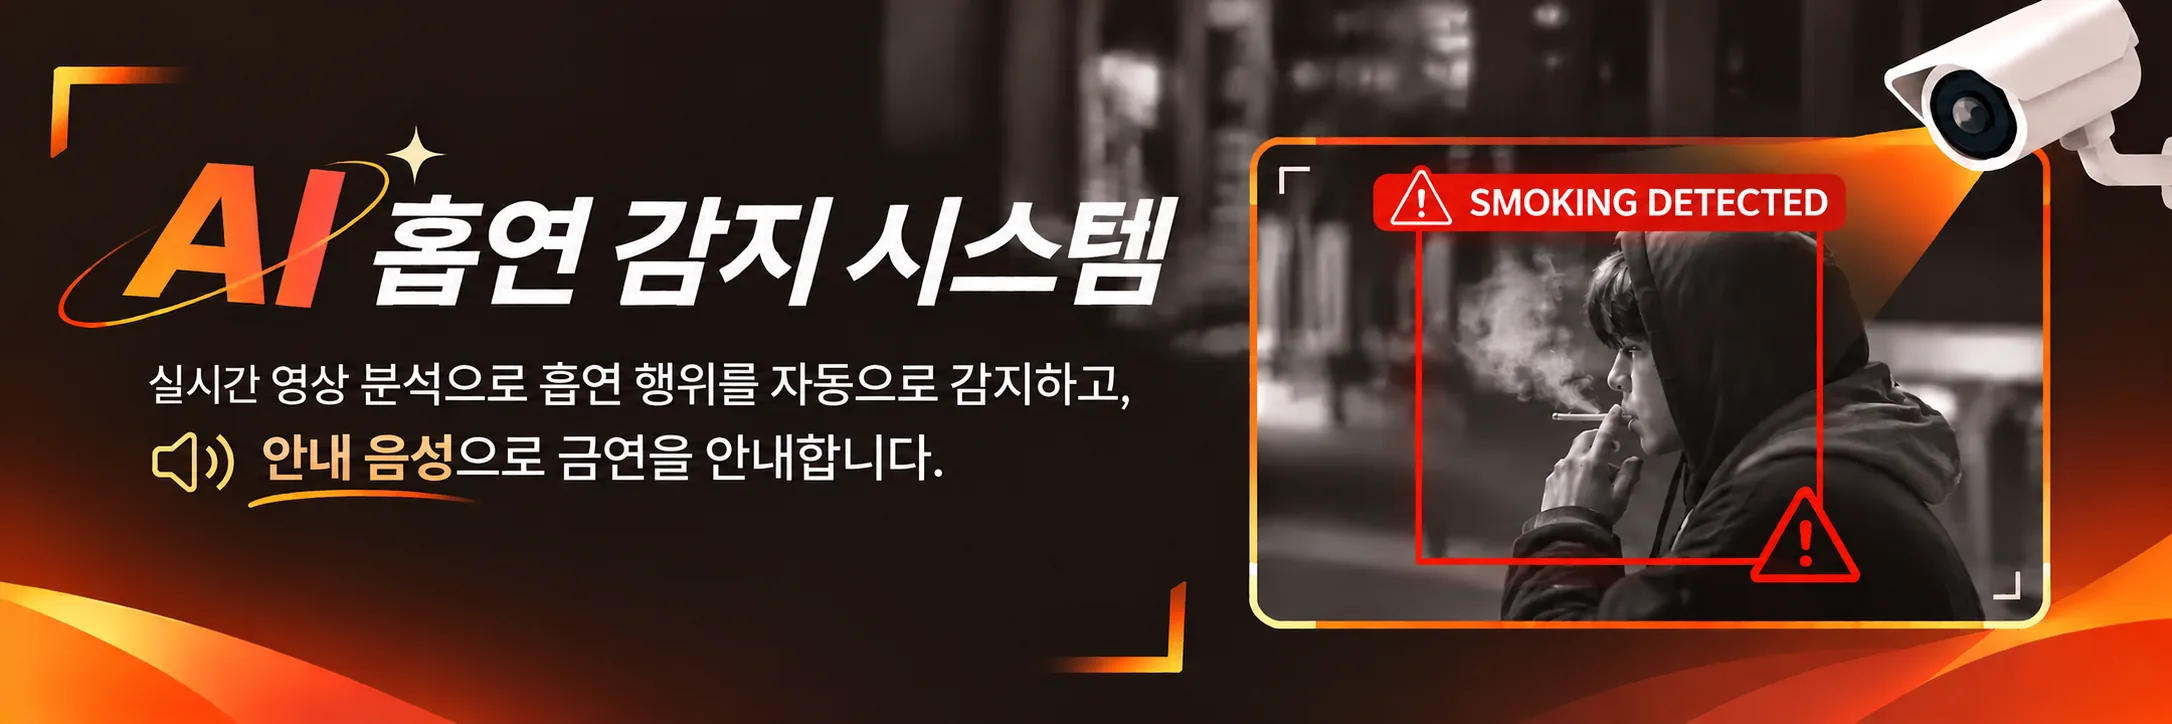
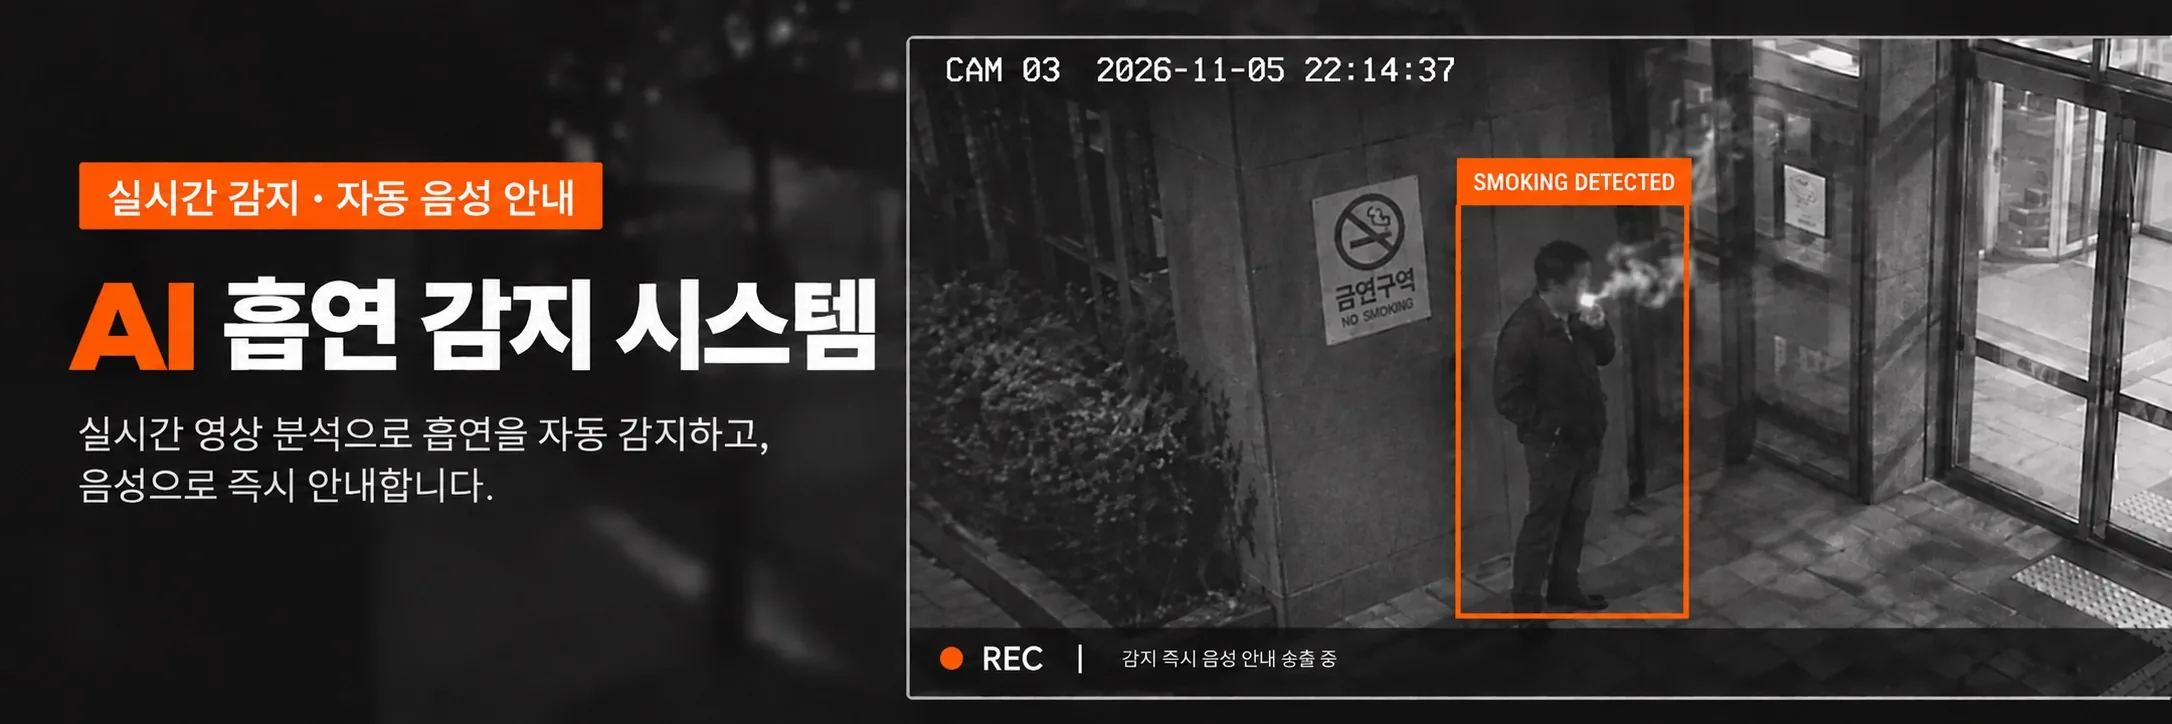
style: 웹 데모 홈 배너 이미지 교체 (#66)

diff --git a/demo/frontend/src/pages/HomePage.tsx b/demo/frontend/src/pages/HomePage.tsx
@@ -38,7 +38,7 @@ export default function HomePage() {
       <img
         className="home-banner"
         src={bannerUrl}
-        alt="AI 흡연 감지 시스템. 실시간 영상 분석으로 흡연 행위를 자동으로 감지하고, 안내 음성으로 금연을 안내합니다."
+        alt="실시간 감지 · 자동 음성 안내. AI 흡연 감지 시스템. 실시간 영상 분석으로 흡연을 자동 감지하고, 음성으로 즉시 안내합니다."
         width={2172}
         height={724}
       />
